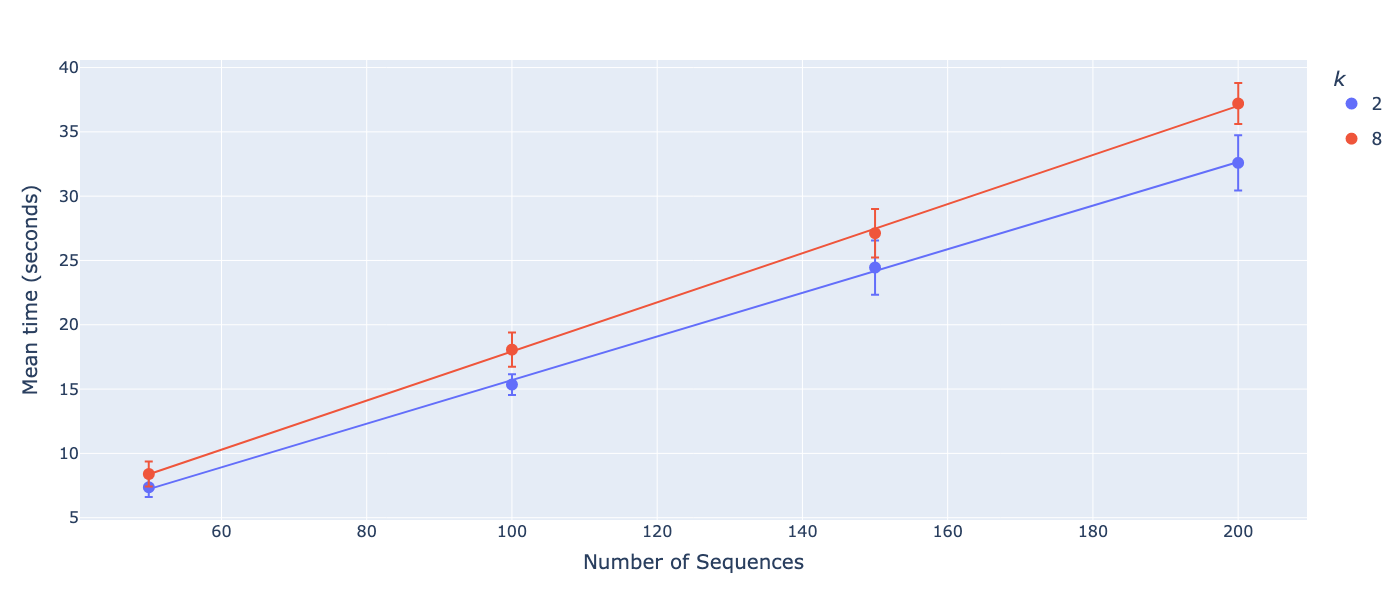
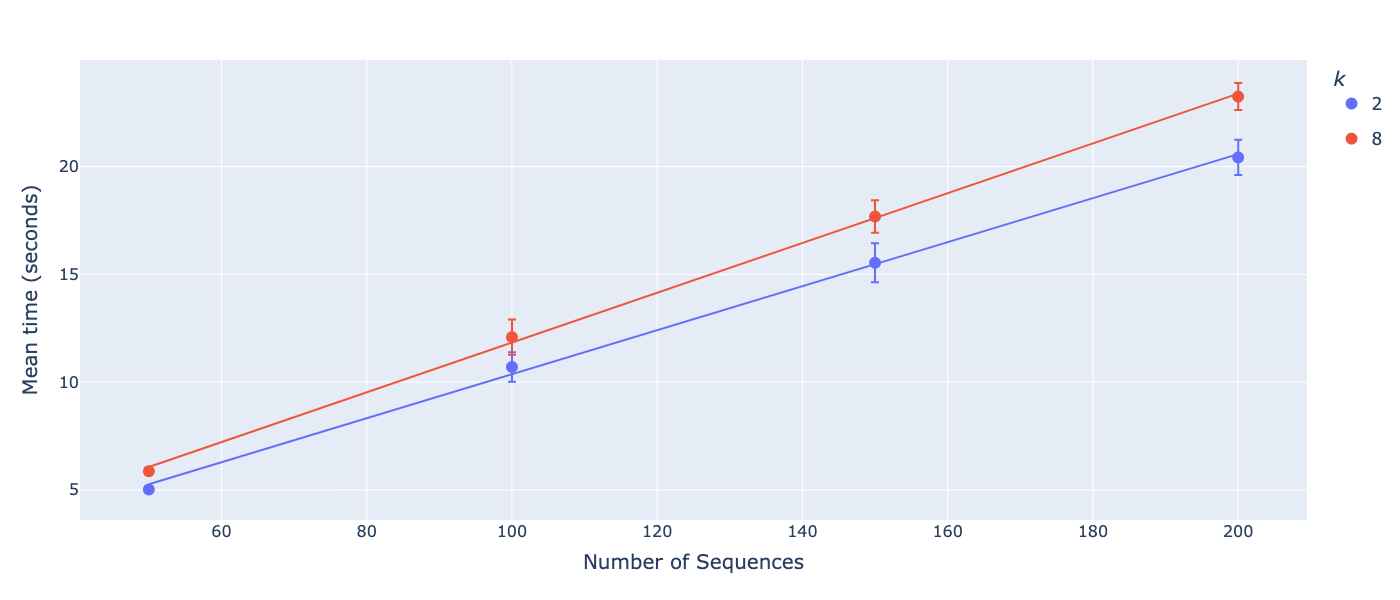
DOC: update figs

diff --git a/paper/nbks/benchmark.py b/paper/nbks/benchmark.py
@@ -64,17 +64,27 @@ def run_max(seqfile, outpath, k):
         assert r.exit_code == 0, r.output
     return timer.get_elapsed_time()
 
+def run_nmost(seqfile, outpath, k):
+    args = (
+        f"-s {seqfile} -o {outpath} --number 5 -k {k} -np 1 -hp".split()
+    )
+    with TimeIt() as timer:
+        r = RUNNER.invoke(dvs_cli.nmost, args, catch_exceptions=False)
+        assert r.exit_code == 0, r.output
+    return timer.get_elapsed_time()
 
 @click.command(**_click_command_opts)
 @click.argument("seqdir", type=Path)
 @click.argument("outpath", type=Path)
+@click.option("-c", "--command", type=click.Choice(["max", "nmost"]), default="max")
 @click.option("-s", "--suffix", type=str, default="gb")
-def run(seqdir, suffix, outpath):
+def run(seqdir, suffix, outpath, command):
     seqdir = seqdir.absolute()
     reps = [1, 2, 3]
     kmer_sizes = [2, 3, 4, 5, 6, 7, 8]
     num_seqs = [50, 100, 150, 200]
     results = []
+    run_func = run_max if command == "max" else run_nmost
     with dvs_util.keep_running():
         with rich_progress.Progress(
             rich_progress.TextColumn("[progress.description]{task.description}"),
@@ -105,8 +115,8 @@ def run(seqdir, suffix, outpath):
                         )
                         for k in kmer_sizes:
                             kout = temp_dir / f"selected-{k}.tsv"
-                            elapsed_time = run_max(dvs_file, kout, k)
-                            results.append(("max", num, k, elapsed_time))
+                            elapsed_time = run_func(dvs_file, kout, k)
+                            results.append((command, num, k, elapsed_time))
                             progress.update(kmers, advance=1, refresh=True)
                         progress.remove_task(kmers)
 
